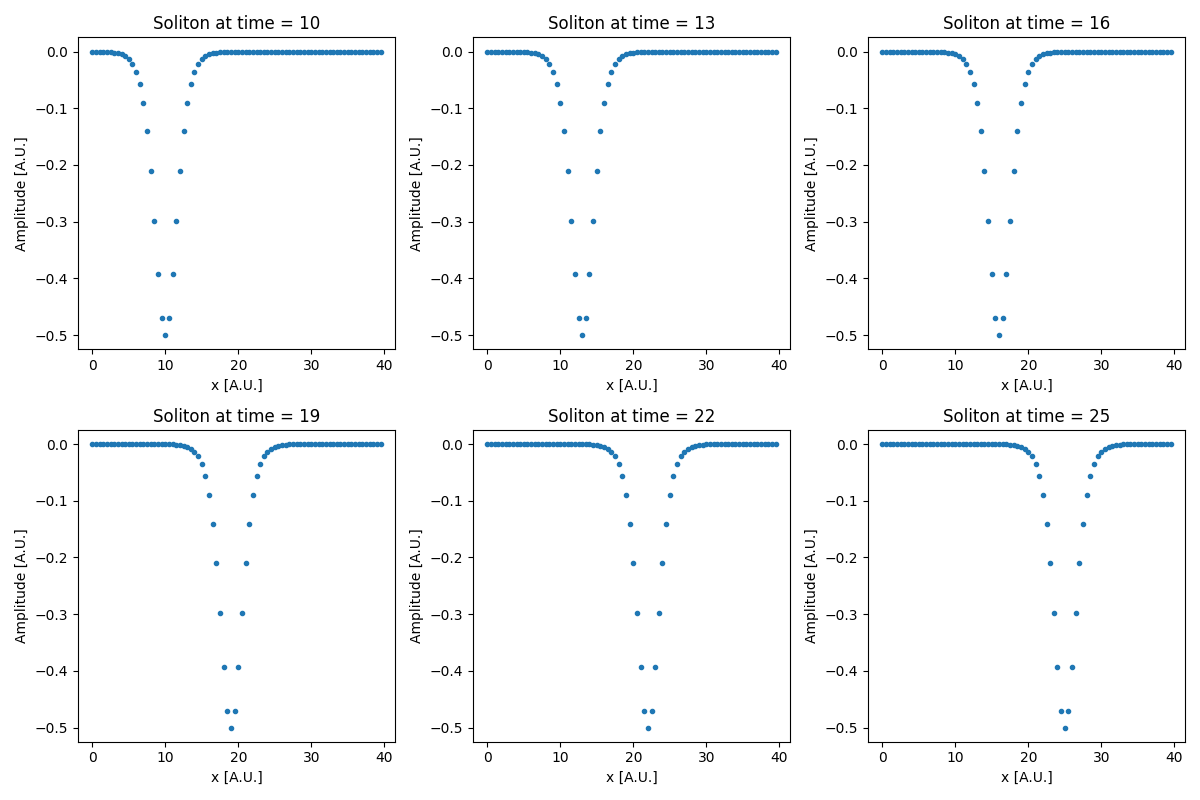
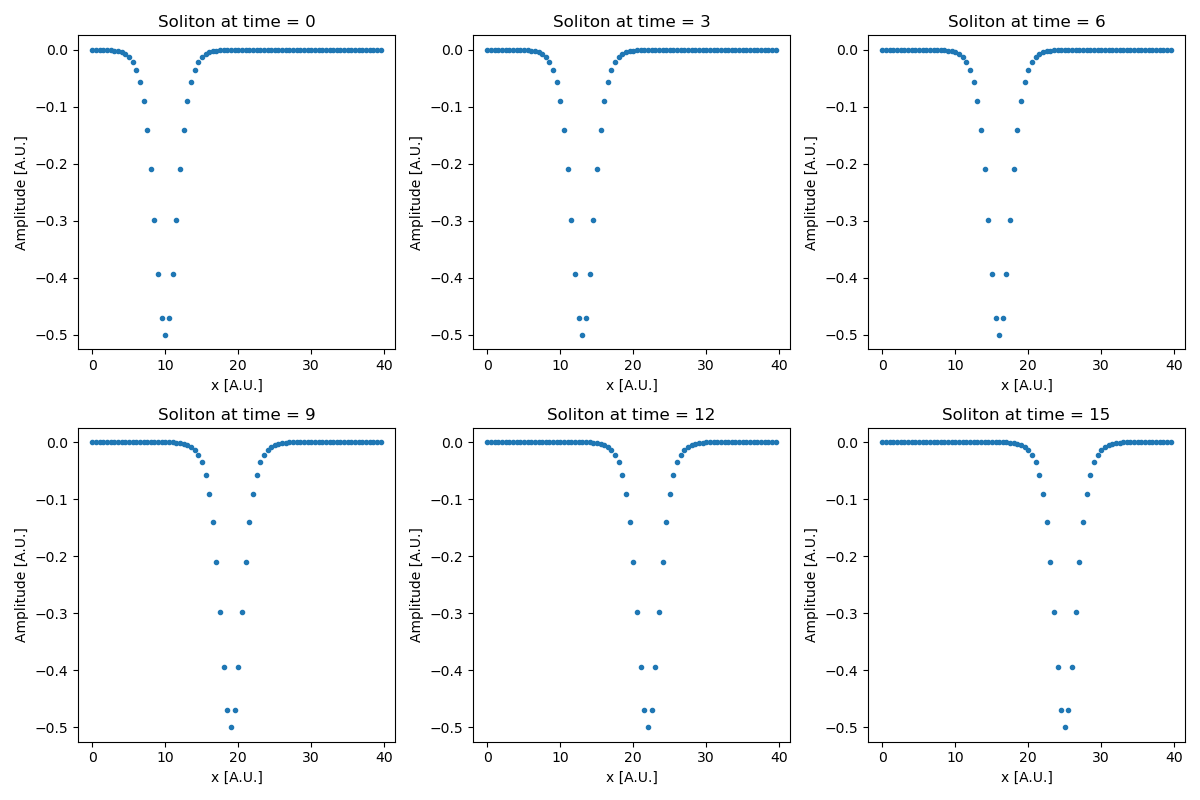
Soliton_plot
t0->x0

diff --git a/soliton_plot.py b/soliton_plot.py
@@ -27,8 +27,8 @@ def soliton_solution(x,t,c=1,x0=0):
 if __name__ == "__main__":
     # The plots shouldn't be imported with the functions above:
     x_series =np.arange(0,40,0.5)
-    t_series=np.arange(10,28,3)
-    A_series=[soliton_solution(x_series,t) for t in t_series]
+    t_series=np.arange(0,18,3)
+    A_series=[soliton_solution(x_series,t,x0=10) for t in t_series]
 
 
     fig, axes = plt.subplots(2, 3, figsize=(12, 8))
